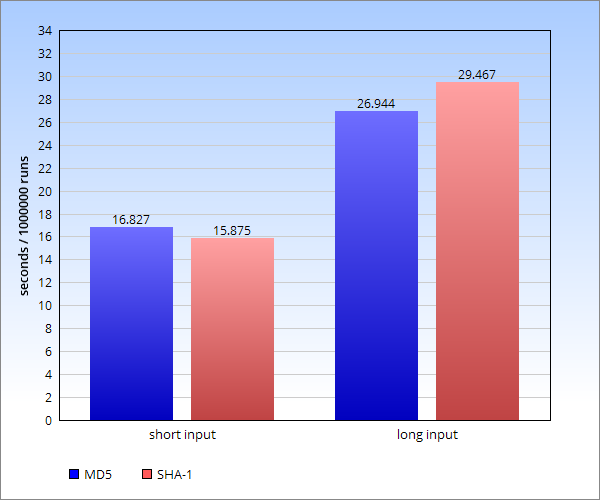
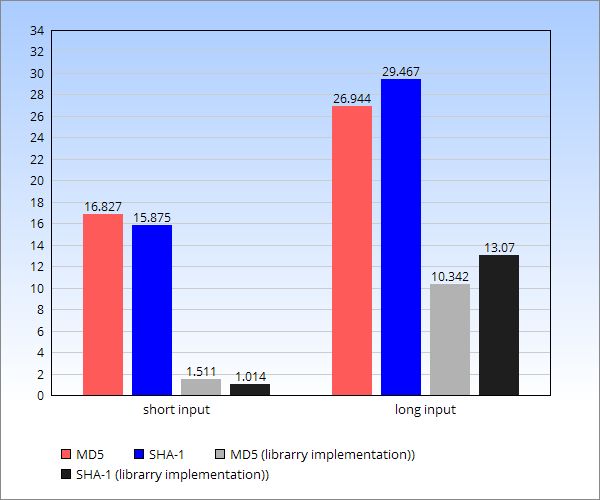
Tested against library implementations.

diff --git a/documentation/testing-document.md b/documentation/testing-document.md
@@ -11,7 +11,7 @@ There is three different test classes, one for each algorithm class. For MD5 and
 ## Comparative tests
 
 I tested execution speed of hash()-function in MD5 and SHA-1 classes. Two different length input strings were used; short input is 17 characters and long is 2412 characters. Both inputs are hashed 1 million times with both algos.
-These result values represent average of 3 test runs.
+These result values represent average of 3 test runs. Test runs of library implementations are run with earlier version of this project [find it here](https://github.com/ripa1002/PasswordGeneratorLab/tree/0ab8897b016c0d6ca183e9d20202d98b2672dc3d).
 
 **Results**
 
@@ -21,5 +21,7 @@ These result values represent average of 3 test runs.
 - Hashing long input 1 million times took 26.944 seconds with MD5 and 29.467 seconds with SHA-1.
 
 We see that with short input MD5 is about 5.7 % slower than SHA-1 and with long input MD5 is about 8.6 % faster than SHA-1.
+
+Library implementations are about 10 times faster in the case of short input string and little less than 3 faster in the case of long input string.
 
 
